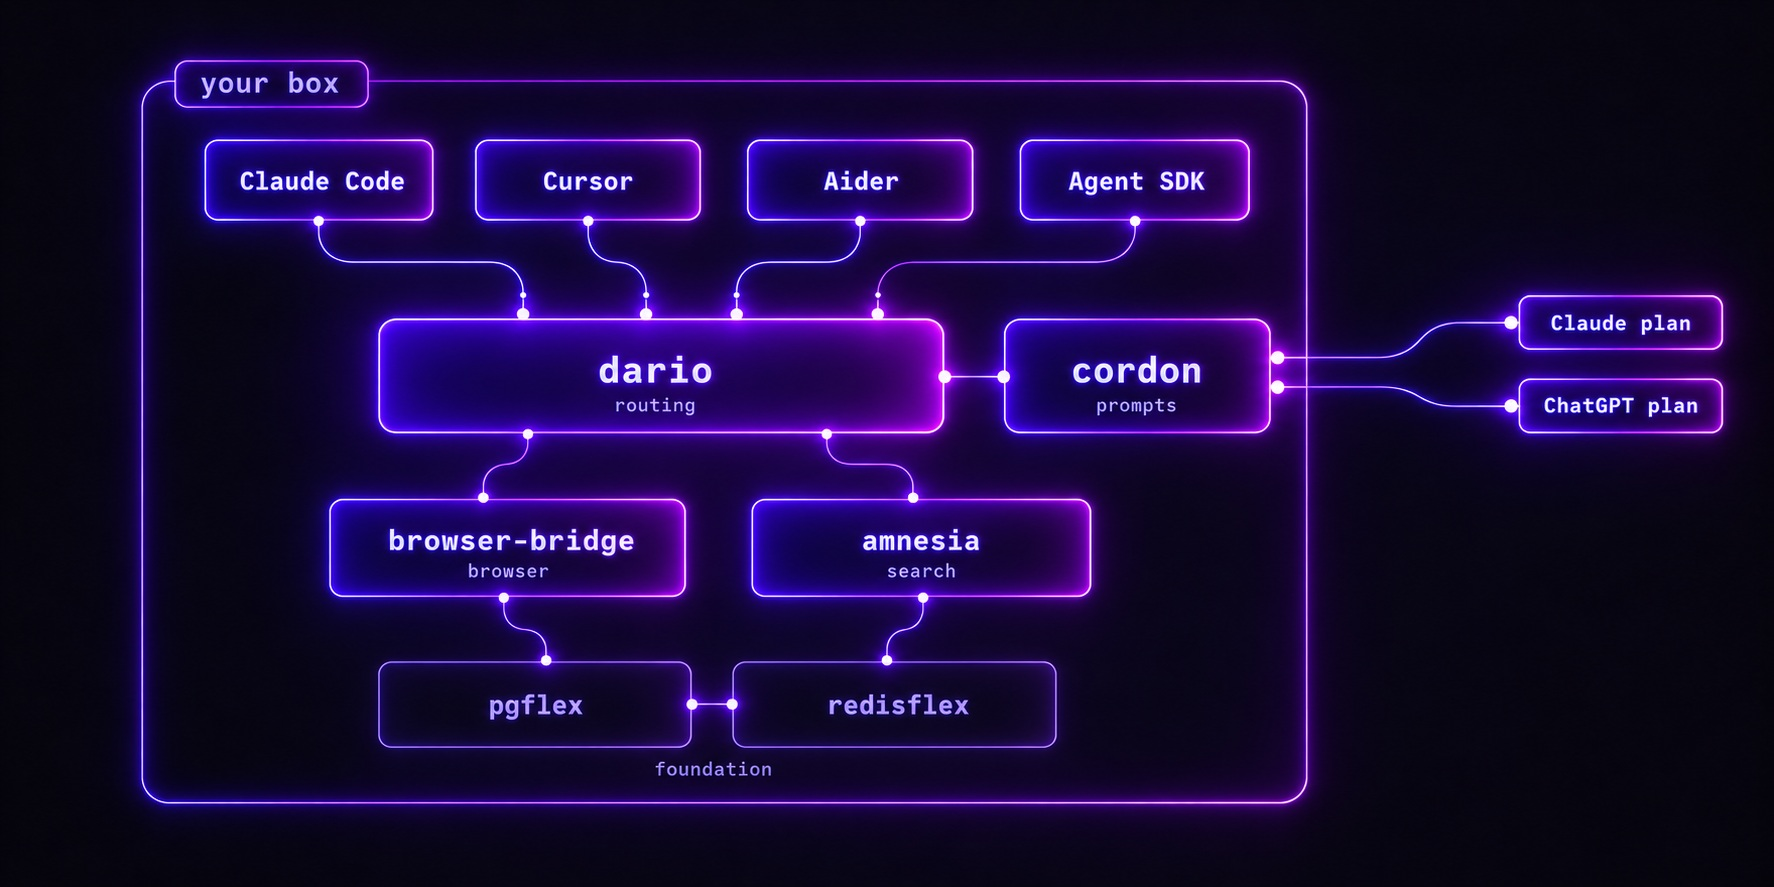
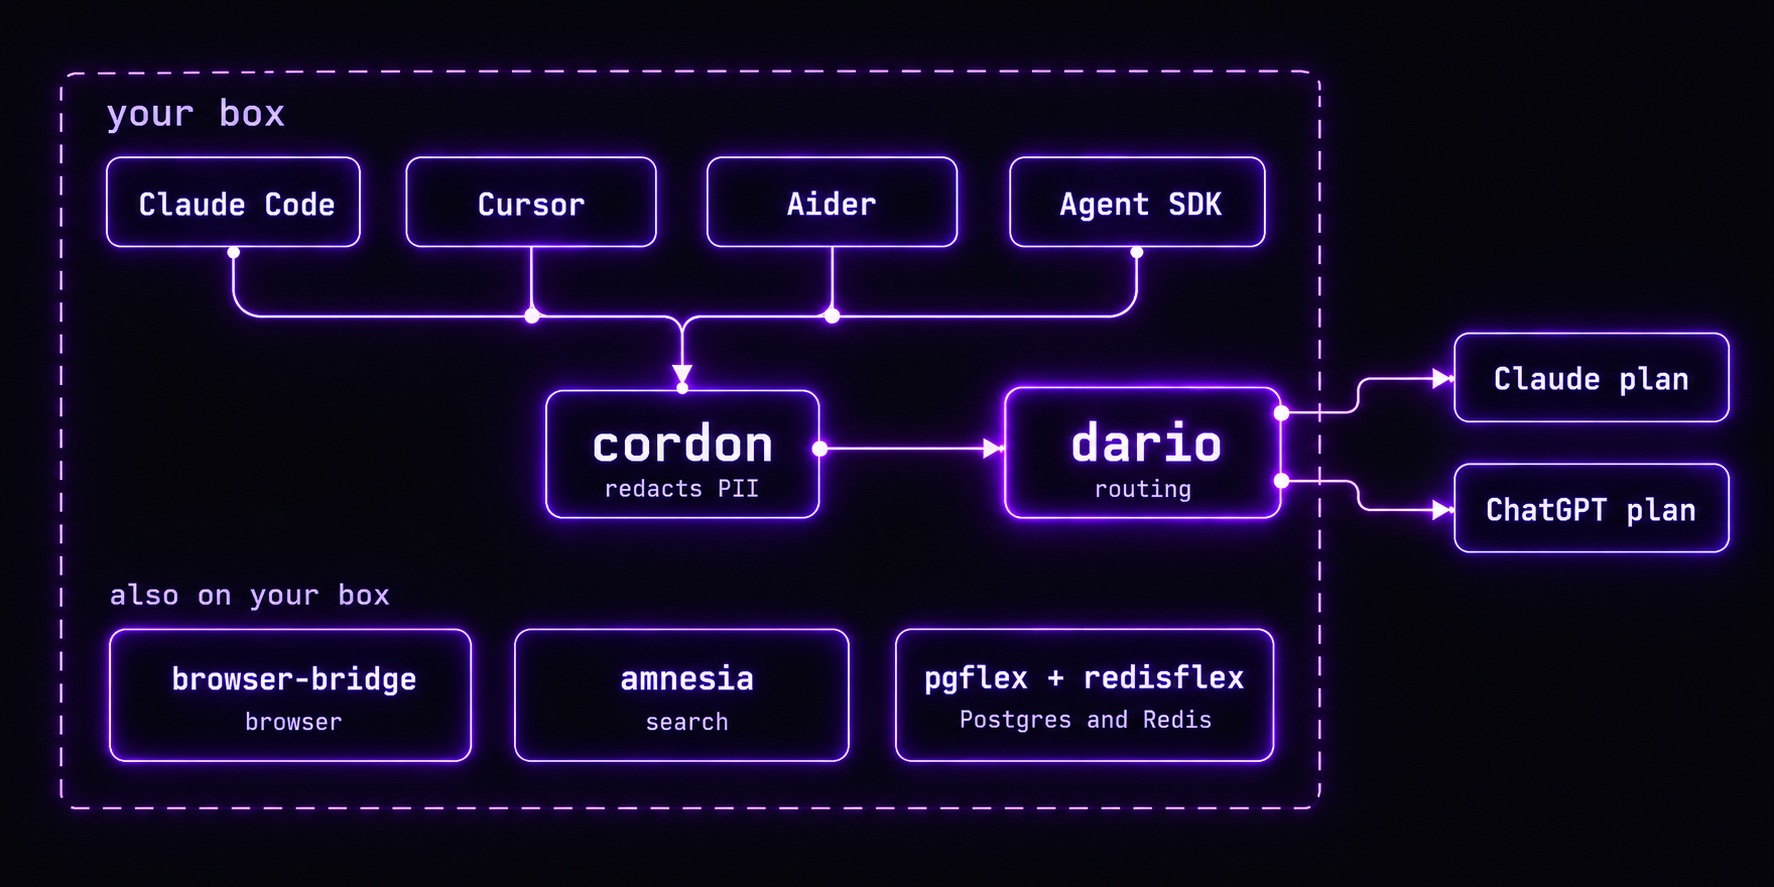
Profile: correct what drifted, redraw two diagrams, show every repo's art
agent-security-stack and hybrid are archived, so they leave the page. 13 fixes merged upstream (the awesome-mcp-servers row is a listing). 600 releases. truecopy-action and checkout-with-retry join the tool list and the Scorecard receipts. The stack map drew cordon behind dario; the real path is client, cordon, dario, plans. The operation diagram drops invoicing (retired) for upstream fixes. Pull requests land on a gating review, not on a human merge.

diff --git a/README.md b/README.md
@@ -4,8 +4,8 @@
 
 ### I build the infrastructure AI agents run on, and I run it in production.
 
-**[dario](https://github.com/askalf/dario)** · 544★ · 27,000+ npm installs a month · 594 releases<br>
-**14 fixes merged upstream** into Node.js, Hugging Face, Erigon, GitHub, Raycast, Taro, Lingui, gosec and more
+**[dario](https://github.com/askalf/dario)** · 544★ · 27,000+ npm installs a month · 600 releases<br>
+**13 fixes merged upstream** into Node.js, Hugging Face, Erigon, GitHub, Raycast, Taro, Lingui, gosec and more
 
 [Portfolio](https://thomas.sprayberrylabs.com) · [Engineering log](https://sprayberrylabs.com/blog) · [What I build](#what-i-build) · hello@sprayberrylabs.com
 
@@ -15,7 +15,9 @@
 
 ## dario
 
-**One local endpoint that puts your Claude and ChatGPT subscriptions behind any coding tool.** Cursor, Cline, Aider, Claude Code, Codex CLI and the Agent SDK all talk to it; either plan answers either wire shape, with failover between them, session-sticky multi-seat pooling, and hourly drift watchers that track Claude Code's request shape. Zero runtime dependencies.
+<a href="https://github.com/askalf/dario"><img src="cards/dario.jpg" alt="dario routes every AI tool you use to the subscriptions you already pay for: Claude Code, Cursor, Cline, Aider, Codex CLI and the Agent SDK go through dario at localhost:3456 to a Claude plan or a ChatGPT plan." width="100%"></a>
+
+**One local endpoint that puts your Claude and ChatGPT subscriptions behind any coding tool.** Cursor, Cline, Aider, Claude Code, Codex CLI and the Agent SDK all talk to it. Either plan answers either wire shape, with failover between them, session-sticky multi-seat pooling, one key per developer with a daily budget, and eleven unattended watchers that track Claude Code's request shape. Zero runtime dependencies.
 
 Every release is SLSA-attested and published from CI with no long-lived token. 9.4 OpenSSF Scorecard, 100% Best Practices.
 
@@ -45,36 +47,51 @@ Fixes found, reproduced and landed in other people's projects, reviewed and merg
 
 Two questions every agent deployment has to answer: what is it *allowed to do*, and what does it *run on*? Everything here is open source, and runs the operation that ships it.
 
+### Own Your Agent Security
+
 <img src="security.jpg" alt="An agent's tool calls pass through redstamp, its skills through truecopy, and plumbline watches the whole sequence from out of band before anything reaches tools, skills or the web." width="100%">
 
-**Own Your Agent Security.** Deterministic gates around what an agent may do.
+Deterministic gates around what an agent may do.
 
-| | |
-|---|---|
-| **[redstamp](https://github.com/askalf/redstamp)** | An offline firewall for agent tool calls: blocks RCE, secret exfiltration, SSRF, prompt injection and poisoned MCP tools, with a tamper-evident audit trail. Runs under CrewAI, LangGraph, the OpenAI Agents SDK and AutoGen. |
-| **[truecopy](https://github.com/askalf/truecopy)** | Vet, sign and pin every skill and MCP server, then fail the build when the bytes change. 68,560 skills audited across two ecosystems. |
-| **[plumbline](https://github.com/askalf/plumbline)** | Out-of-band monitoring that scores an agent's *whole action sequence* against its declared job, catching an escape assembled from individually allowed steps. |
-| **[agent-security-stack](https://github.com/askalf/agent-security-stack)** | redstamp and truecopy behind one governed MCP server, with scoped single-use credential leases. |
+<table>
+<tr>
+<td width="50%" valign="top"><a href="https://github.com/askalf/redstamp"><img src="cards/redstamp.jpg" alt="redstamp: ALF holds a red stamp beside tool calls stamped allow, allow, approve and block." width="100%"></a><br><b><a href="https://github.com/askalf/redstamp">redstamp</a></b>: an offline firewall for agent tool calls. It blocks RCE, secret exfiltration, SSRF, prompt injection and poisoned MCP tools, with a tamper-evident audit trail, under CrewAI, LangGraph, the OpenAI Agents SDK and AutoGen.</td>
+<td width="50%" valign="top"><a href="https://github.com/askalf/truecopy"><img src="cards/truecopy.jpg" alt="truecopy: MCP servers, skills and marketplaces flow through scan, pin, verify and enforce into truecopy.lock, and a poisoned skill is stopped at scan." width="100%"></a><br><b><a href="https://github.com/askalf/truecopy">truecopy</a></b>: vet, sign and pin every skill and MCP server, then fail the build when the bytes change. 68,560 skills poison-scanned across two ecosystems.</td>
+</tr>
+<tr>
+<td width="50%" valign="top"><a href="https://github.com/askalf/truecopy-action"><img src="cards/truecopy-action.jpg" alt="truecopy-action: one YAML block, and a pull request whose truecopy / verify check fails on a drifted skill cannot merge." width="100%"></a><br><b><a href="https://github.com/askalf/truecopy-action">truecopy-action</a></b>: truecopy as a GitHub Action. One YAML block, and a skill that drifted or turned poisonous fails the pull request.</td>
+<td width="50%" valign="top"><a href="https://github.com/askalf/plumbline"><img src="cards/plumbline.jpg" alt="plumbline: a trajectory of individually approved agent events climbs past the drift threshold and is halted at seq 18, nine events before code execution." width="100%"></a><br><b><a href="https://github.com/askalf/plumbline">plumbline</a></b>: out-of-band monitoring that scores an agent's <i>whole action sequence</i> against its declared job, catching an escape assembled from individually allowed steps.</td>
+</tr>
+</table>
 
-<img src="stack.jpg" alt="A layered stack on your box: agents and coding tools at the top, dario and cordon routing and redacting in the middle, browser-bridge and amnesia beside them, pgflex and redisflex at the foundation." width="100%">
+### Own Your Stack
 
-**Own Your Stack.** The plan you already pay for, on the machine you already own.
+<img src="stack.jpg" alt="Your box: Claude Code, Cursor, Aider and the Agent SDK go through cordon, which redacts PII, to dario, which routes to a Claude plan or a ChatGPT plan. browser-bridge, amnesia, pgflex and redisflex also run on the box." width="100%">
 
-| | |
-|---|---|
-| **[dario](https://github.com/askalf/dario)** | Subscription routing for every coding tool (above). |
-| **[cordon](https://github.com/askalf/cordon)** | A PII-redacting LLM gateway that fails closed, shipped as an attested container. |
-| **[browser-bridge](https://github.com/askalf/browser-bridge)** | Stealth headless Chromium on your own CDP endpoint, with a prompt-injection firewall in front of it. |
-| **[amnesia](https://github.com/askalf/amnesia)** | Privacy meta-search with no accounts, no ads and no query log, live at [amnesia.tax](https://amnesia.tax). |
-| **[pgflex](https://github.com/askalf/pgflex)** · **[redisflex](https://github.com/askalf/redisflex)** | One Postgres API and one Redis API, real servers in production and in-process engines for tests, so a whole platform runs without Docker. |
+The plan you already pay for, on the machine you already own.
+
+<table>
+<tr>
+<td width="50%" valign="top"><a href="https://github.com/askalf/cordon"><img src="cards/cordon.jpg" alt="cordon: your app sends an email address and a card number through cordon, which forwards placeholders to the provider and restores the real values on the way back." width="100%"></a><br><b><a href="https://github.com/askalf/cordon">cordon</a></b>: a PII-redacting LLM gateway that fails closed, shipped as an attested container. Put it in front of dario and a shared subscription never sees raw personal data.</td>
+<td width="50%" valign="top"><a href="https://github.com/askalf/browser-bridge"><img src="cards/browser-bridge.jpg" alt="browser-bridge: ALF holds a browser window on port 9222, and Playwright, Puppeteer and MCP clients connect through its token-auth padlock." width="100%"></a><br><b><a href="https://github.com/askalf/browser-bridge">browser-bridge</a></b>: stealth headless Chromium on your own CDP endpoint, with token auth and a prompt-injection firewall in front of it.</td>
+</tr>
+<tr>
+<td width="50%" valign="top"><a href="https://github.com/askalf/amnesia"><img src="cards/amnesia.jpg" alt="amnesia: ALF beside a search bar whose trail of particles dissolves as it drifts away." width="100%"></a><br><b><a href="https://github.com/askalf/amnesia">amnesia</a></b>: privacy meta-search with no accounts, no ads and no query log, live at <a href="https://amnesia.tax">amnesia.tax</a>.</td>
+<td width="50%" valign="top"><a href="https://github.com/askalf/pgflex"><img src="cards/pgflex.jpg" alt="pgflex: your app calls createAdapter(), which runs on pg in production or pglite in-process for dev, CI and tests." width="100%"></a><br><b><a href="https://github.com/askalf/pgflex">pgflex</a></b>: one Postgres API, two modes. A real server in production, in-process PGlite for dev, CI and tests, same SQL.</td>
+</tr>
+<tr>
+<td width="50%" valign="top"><a href="https://github.com/askalf/redisflex"><img src="cards/redisflex.jpg" alt="redisflex: your app calls createRedisAdapter(), which runs on ioredis in production or in memory for dev, CI and tests, with a BullMQ-shaped queue." width="100%"></a><br><b><a href="https://github.com/askalf/redisflex">redisflex</a></b>: one Redis API, two modes, plus a BullMQ-shaped in-memory queue, so a whole platform runs without Docker.</td>
+<td width="50%" valign="top"><a href="https://github.com/askalf/checkout-with-retry"><img src="cards/checkout-with-retry.jpg" alt="checkout-with-retry: attempts 1 and 2 fail with a 401, and after waits of 8 and 20 seconds attempt 3 checks out." width="100%"></a><br><b><a href="https://github.com/askalf/checkout-with-retry">checkout-with-retry</a></b>: a drop-in for <code>actions/checkout</code> that retries the transient credential failures of ephemeral runners.</td>
+</tr>
+</table>
 
 The whole map on one page → **[ownyourstack.sprayberrylabs.com](https://ownyourstack.sprayberrylabs.com)**
 
 ## How it runs
 
-<img src="operation.jpg" alt="The askalf orchestrator at the center, a ring of specialist agents around it, one human approving what matters, and the output flowing to Sprayberry Labs on GitHub and in production." width="100%">
+<img src="operation.jpg" alt="The askalf orchestrator at the center with ALF, surrounded by shipping, reviewing, auditing and upstream fixes, one human approving what matters, and the output flowing to Sprayberry Labs." width="100%">
 
-**[askalf](https://askalf.org)** is the agent operation behind [Sprayberry Labs](https://sprayberrylabs.com): an orchestrator and specialist agents that ship, review, audit and watch production, with one human approving what matters. It runs on the tools above. dario routes its model traffic, redstamp gates its tool calls, truecopy verifies every skill at load, and every pull request gets a gating review from a different model family than the one that wrote it, in the open, before a human merges.
+**[askalf](https://askalf.org)** is the agent operation behind [Sprayberry Labs](https://sprayberrylabs.com): an orchestrator and specialist agents that ship, review, audit and send fixes upstream, with one human approving what matters. It runs on the tools above. dario routes its model traffic, redstamp gates its tool calls, truecopy verifies every skill at load, and every pull request gets a gating review from a different model family than the one that wrote it, in the open, before it lands.
 
 I'm that human: fifteen-plus years in systems and infrastructure engineering, data centers and virtualization before the agent work. I architect it, review it and sign everything that leaves the shop, and I write down what actually happens.
 
@@ -87,7 +104,6 @@ I'm that human: fifteen-plus years in systems and infrastructure engineering, da
 - **[Zero raw credentials](https://sprayberrylabs.com/blog/keeper-zero-raw-credentials)**: moving a live agent fleet from 132 inherited environment keys to scoped leases, one seam at a time.
 - **[An injection firewall for the agentic browser](https://sprayberrylabs.com/blog/picket-governed-agentic-browser)**: why the lethal trifecta is structural, and how to gate it.
 - **[A self-healing release pipeline](https://sprayberrylabs.com/blog/dario-self-healing-release-pipeline)**: how dario ships, health-gates and rolls itself back.
-- **[Own your inference](https://sprayberrylabs.com/blog/own-your-inference)**: the measurements behind hybrid.
 - **redstamp governing third-party frameworks:** [CrewAI](https://sprayberrylabs.com/blog/crewai-flowdef-under-askalf) · [LangGraph](https://sprayberrylabs.com/blog/langgraph-under-askalf) · [OpenAI Agents SDK](https://sprayberrylabs.com/blog/openai-agents-under-askalf) · [AutoGen](https://sprayberrylabs.com/blog/autogen-under-askalf)
 
 Full engineering log → **[sprayberrylabs.com/blog](https://sprayberrylabs.com/blog)**
@@ -97,7 +113,7 @@ Full engineering log → **[sprayberrylabs.com/blog](https://sprayberrylabs.com/
 <details>
 <summary><b>Supply-chain receipts</b></summary>
 
-- Live OpenSSF Scorecard on dario, redstamp, truecopy, plumbline, agent-security-stack, cordon, browser-bridge and amnesia; 100% OpenSSF Best Practices on [dario](https://www.bestpractices.dev/projects/13638), [truecopy](https://www.bestpractices.dev/projects/14488), [redstamp](https://www.bestpractices.dev/projects/14489) and [amnesia](https://www.bestpractices.dev/projects/14490).
+- Live OpenSSF Scorecard on dario, redstamp, truecopy, truecopy-action, plumbline, cordon, browser-bridge, amnesia and checkout-with-retry; 100% OpenSSF Best Practices on [dario](https://www.bestpractices.dev/projects/13638), [truecopy](https://www.bestpractices.dev/projects/14488), [redstamp](https://www.bestpractices.dev/projects/14489) and [amnesia](https://www.bestpractices.dev/projects/14490).
 - npm packages publish from CI through OIDC trusted publishing, with provenance and no long-lived token.
 - cordon ships as an attested container from GHCR.
 
